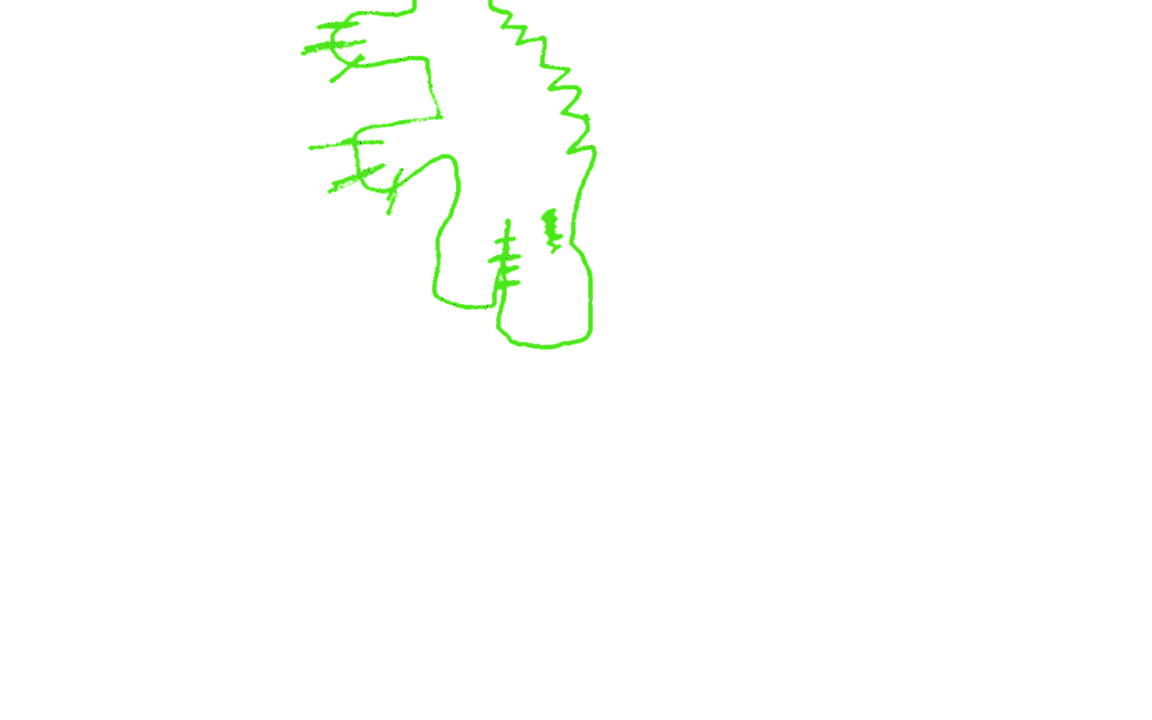
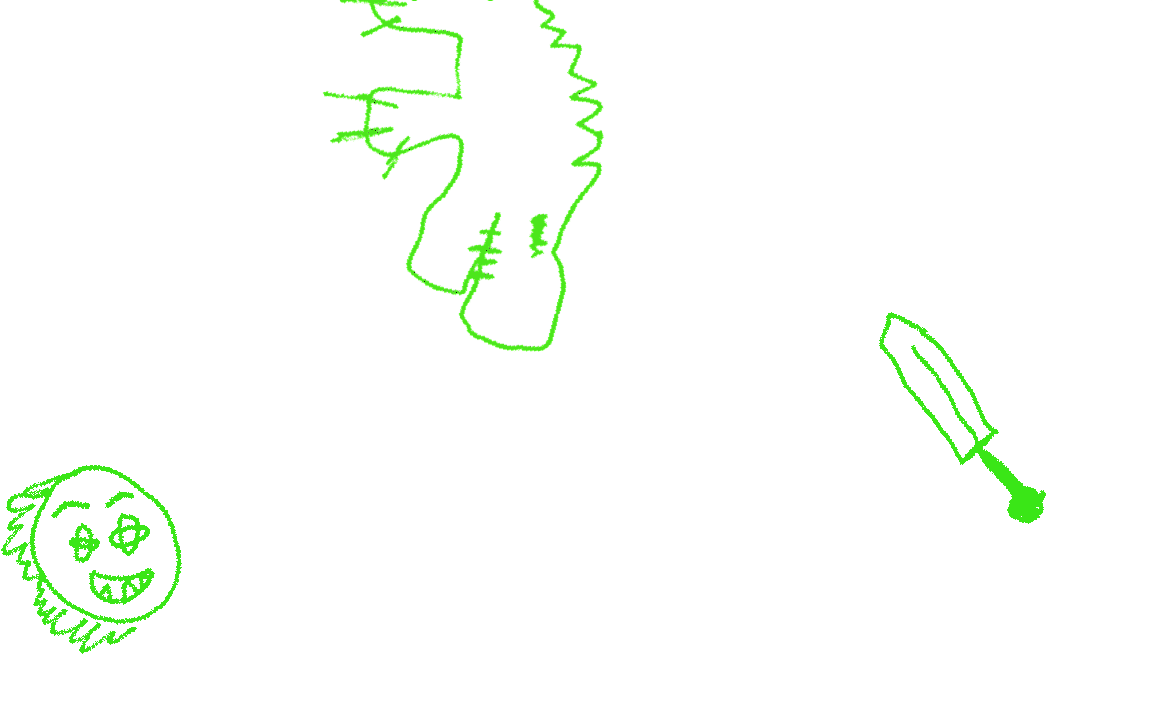
Final website

diff --git a/GreenLeafOrganics.html b/GreenLeafOrganics.html
@@ -7,6 +7,7 @@
     <meta name="Description" content="This is a website about Organic food products.">
     <title>GreanLeaf Organics Pvt. Ltd.</title>
     <link rel="stylesheet" href="style.css">
+    <link rel="icon" type="image/x-icon" href="Photos/tab-logo-nbg.png">
 </head>
 <body>
 
@@ -342,14 +343,43 @@
                         <div class="contact" id="Contact">
                             <div class="container">
 
-                                <img src="Photos/trial-Photoroom.png" alt="" class="contact-bg">
+                                <div class="flip-bg">
+                                    <img src="Photos/Trial-3-Photoroom.png" alt="">
+                                    <img src="Photos/trial-Photoroom.png" alt="">
+                                    <img src="Photos/Trial-2-Photoroom.png" alt="">
+                                </div>
 
-                                <div class="contect-info">
-                                    <h1>Contact</h1>
+                                <div class="contact-info">
+                                    <h1>Represented By</h1>
+                                    <h1>Dishant Patel</h1>
+                                    <p>Email</p>
+                                    <h6>dishantpatel2007308@gmail.com</h6>
+                                    <p>Address</p>
+                                    <h6>GreenWood Organic Farms</h6>
+                                    <h6>Survey No. 42, Valley Road</h6>
+                                    <h6>Heritage District, Pune, Maharashtra</h6>
+                                    <h6>411045</h6>
                                 </div>
                             </div>
                         </div>
 
+                        <div class="footer">
+                            <footer>
+                                <h6>Grown with love, delivered with care.</h6>
+                                <nav class="footer-nav">
+                                    <a href="#Home">Home</a>
+                                    <a href="#About">About</a>
+                                    <a href="#Products">Products</a>
+                                    <a href="#Service">Service</a>
+                                    <a href="#Fetured">Fetured</a>
+                                    <a href="#Testimonials">Testimonials</a>
+                                    <a href="#Contact">Contact</a>
+                                </nav>
+                                <div class="copyright">
+                                    <p>&copy; 2026 GreenLeaf Organics Pvt. Ltd. All rights reserved.</p>
+                                </div>
+                            </footer>
+                        </div>
                     </div>
                 </div>
 

diff --git a/script.js b/script.js
@@ -103,7 +103,7 @@
               }
 
               // Wait a tiny bit for the page to align before starting the box animation
-              setTimeout(animateOpen, 400); 
+              setTimeout(animateOpen, 200); 
           });
       }
 
@@ -133,7 +133,7 @@
               }
 
               // Wait a tiny bit for the page to align before starting the box animation
-              setTimeout(animateOpen, 400); 
+              setTimeout(animateOpen, 200); 
           });
       }
 
@@ -163,9 +163,41 @@
               }
 
               // Wait a tiny bit for the page to align before starting the box animation
-              setTimeout(animateOpen, 400); 
+              setTimeout(animateOpen, 200); 
+          });
+
+      }
+
+      const contactLink = document.querySelector('a[href="#Contact"]');
+      const contactArticle = document.querySelector('.contact');
+
+      if (contactLink && contactArticle) {
+          contactLink.addEventListener('click', function (e) {
+              e.preventDefault(); // Stops the sudden jump
+
+              // 1. Gently scroll the main page to the About section first
+              document.getElementById('About').scrollIntoView({ behavior: 'smooth' });
+
+              // 2. Function to smoothly grow the black box
+              const max = getMaxSize();
+              function animateOpen() {
+                  if (size < max) {
+                      size += 40; // Adjust this number to change expansion speed
+                      clampAndRender();
+                      requestAnimationFrame(animateOpen);
+                  } else {
+                      // 3. Once fully open, glide down to the Products lists
+                      setTimeout(() => {
+                          contactArticle.scrollIntoView({ behavior: 'smooth', block: 'start' });
+                      }, 300); // Brief pause to let the box finish opening
+                  }
+              }
+
+              // Wait a tiny bit for the page to align before starting the box animation
+              setTimeout(animateOpen, 200); 
           });
       }
+
 
     })();
 

diff --git a/style.css b/style.css
@@ -490,17 +490,68 @@ body.no-scroll {
     width: 100%;
     min-height: 100vh;
     overflow: hidden;
-    color: white;
+    z-index: 1;
 }
 
-.contact-bg {
+.flip-bg {
     position: absolute;
     top: 0;
     left: 0;
     width: 100%;
     height: 100%;
-    object-fit: cover;
+    display: grid;
     z-index: 0;
-    opacity: 1;
+    filter: blur(4px);
 }
 
+.flip-bg img {
+    grid-area: 1/1;
+    width: 100%;
+    height: 100%;
+    object-fit: cover;
+    opacity: 0;
+}
+
+.flip-bg img:nth-child(1) {animation: blinkShow 1.2s infinite -0.4s;}
+.flip-bg img:nth-child(2) {animation: blinkShow 1.2s infinite 0s;}
+.flip-bg img:nth-child(3) {animation: blinkShow 1.2s infinite 0.4s;}
+
+@keyframes blinkShow {
+    0%, 33.33% {opacity: 1;}
+    33.4%, 100% {opacity: 0;}
+}
+
+.contact-info {
+    position: relative;
+    z-index: 1;
+}
+
+.contact-info h1 {
+    font-size: 120px;
+    font-family: Clash-Bold;
+}
+
+.contact-info p {
+    font-size: 20px;
+    color: grey;
+}
+
+.contact-info h6 {
+    font-size: 15px;
+    font-family: Clash-Bold;
+}
+
+.footer {
+    display: block;
+    min-height: 140px;
+    background-color: white;
+    border-radius: 30px;
+}
+
+.footer h6 {
+    color: black;
+}
+
+.copyright p {
+    color: black;
+}
